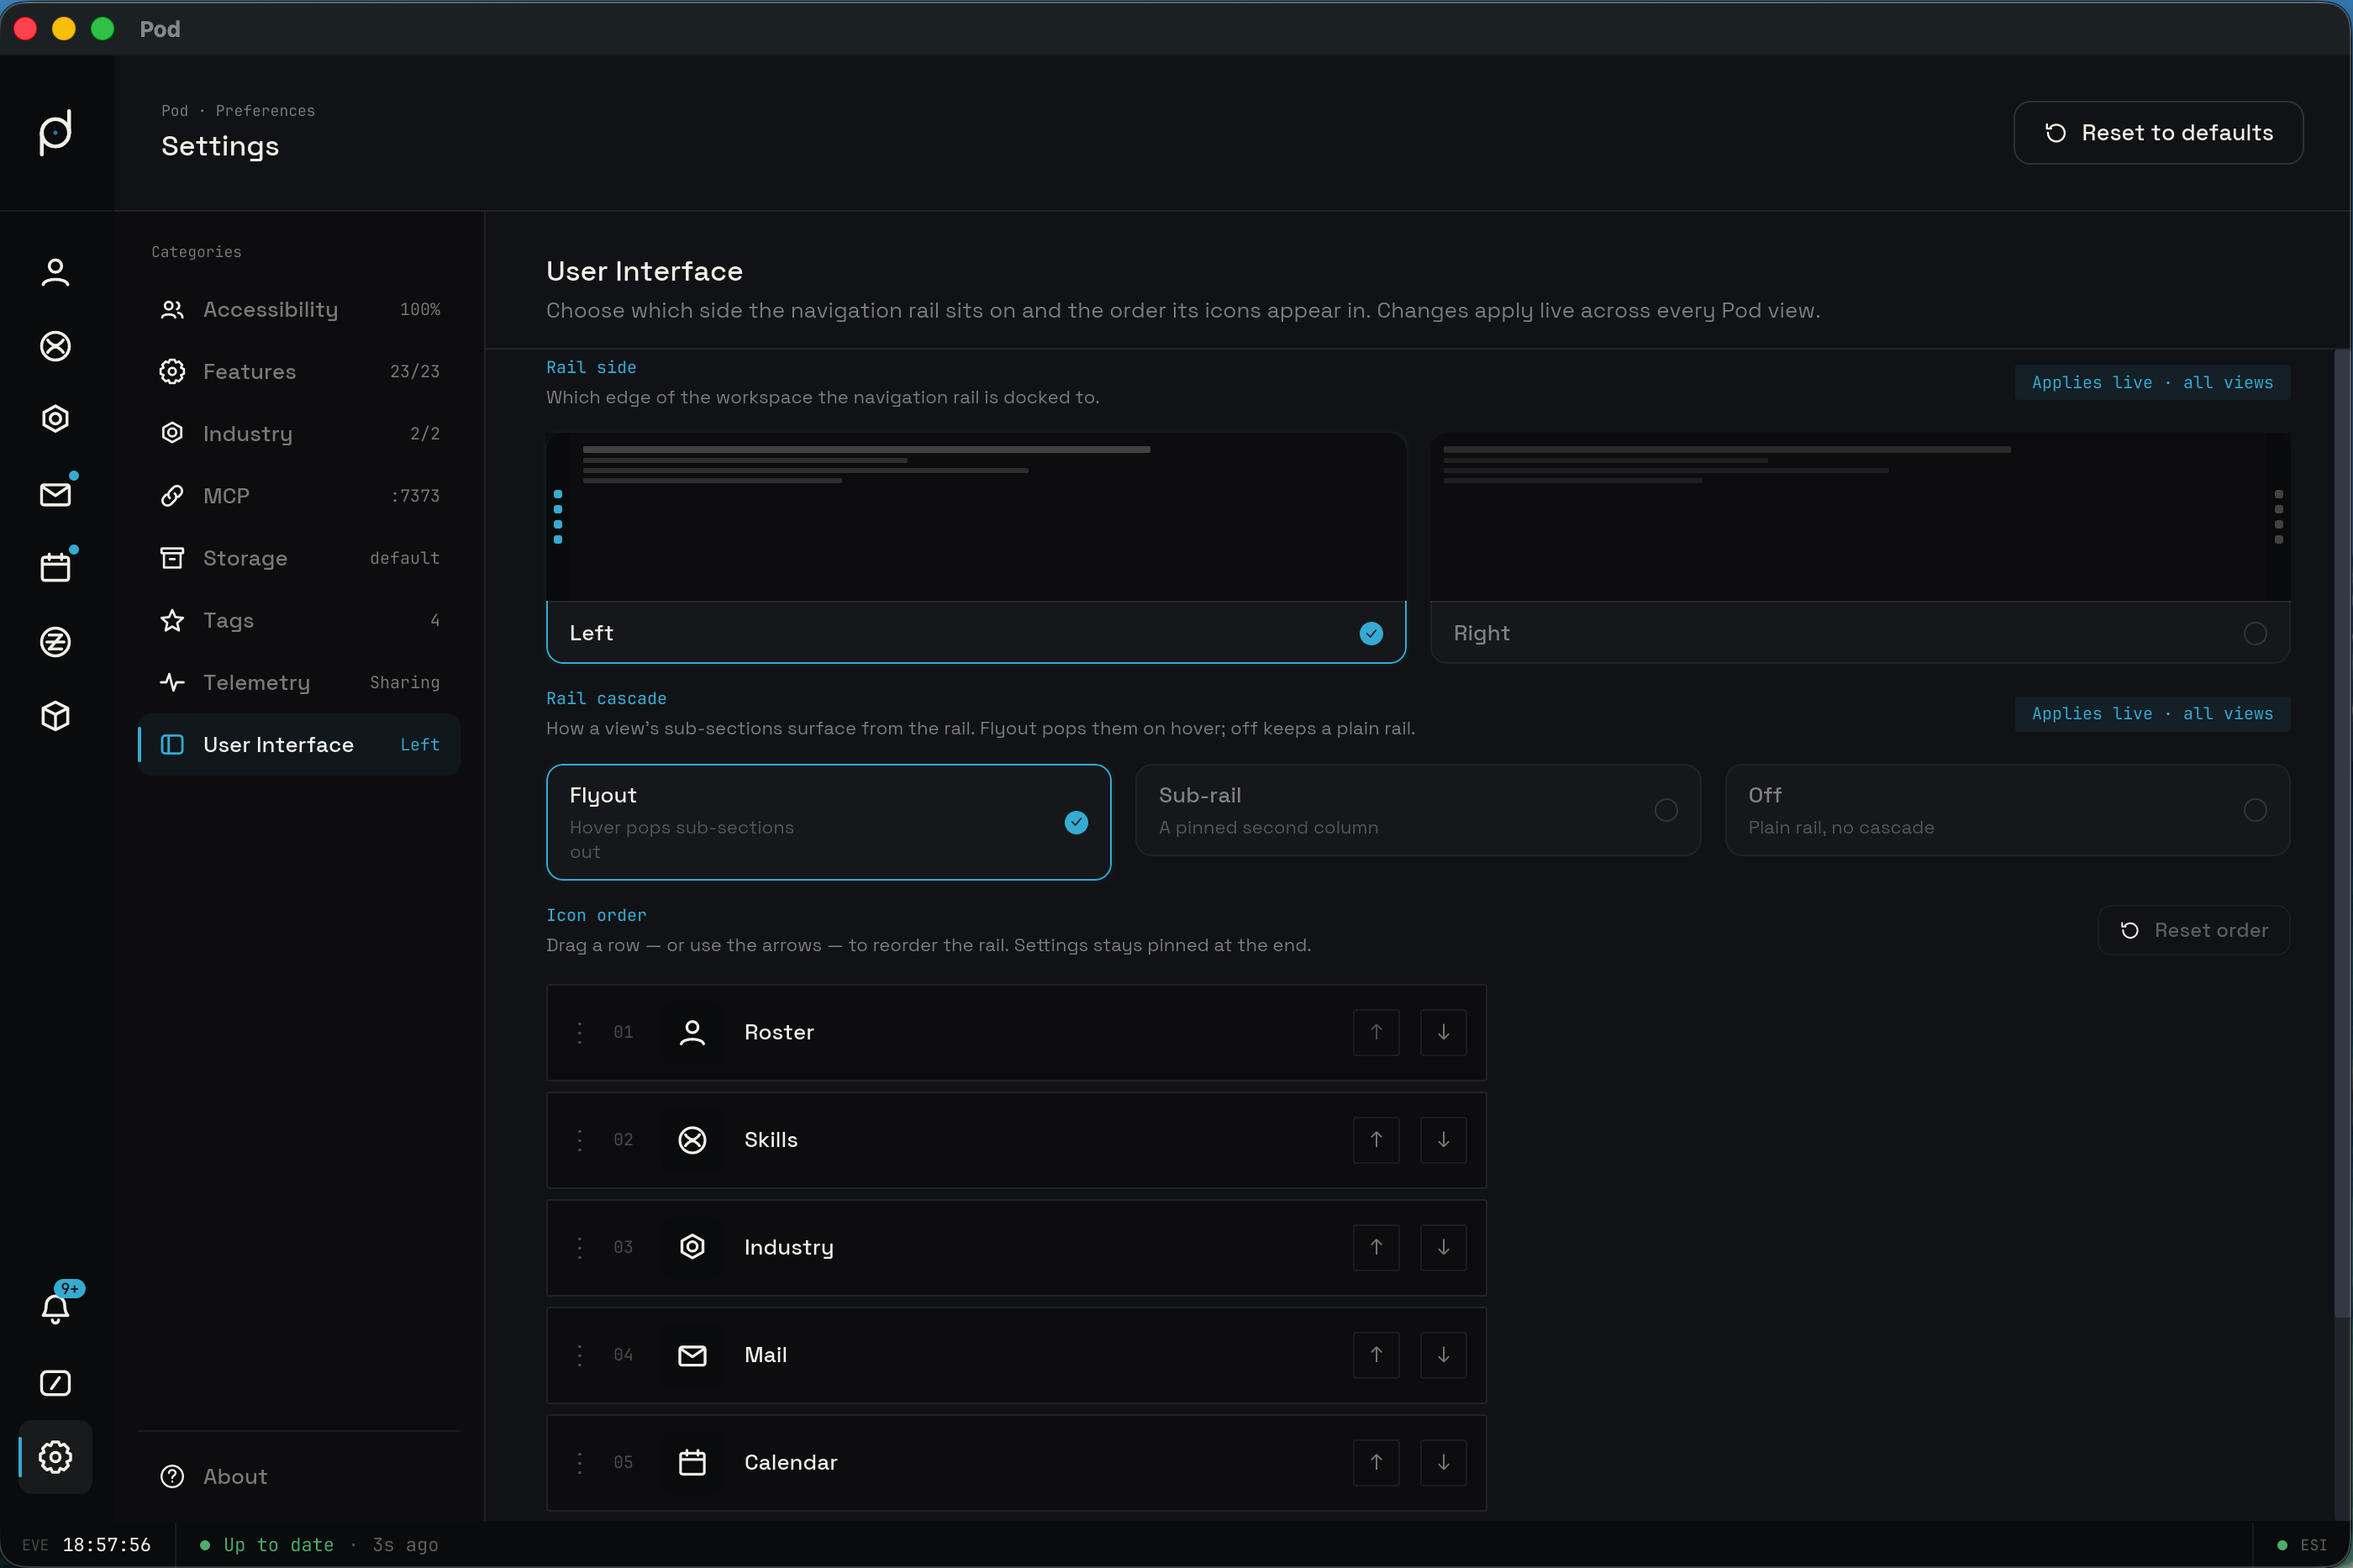
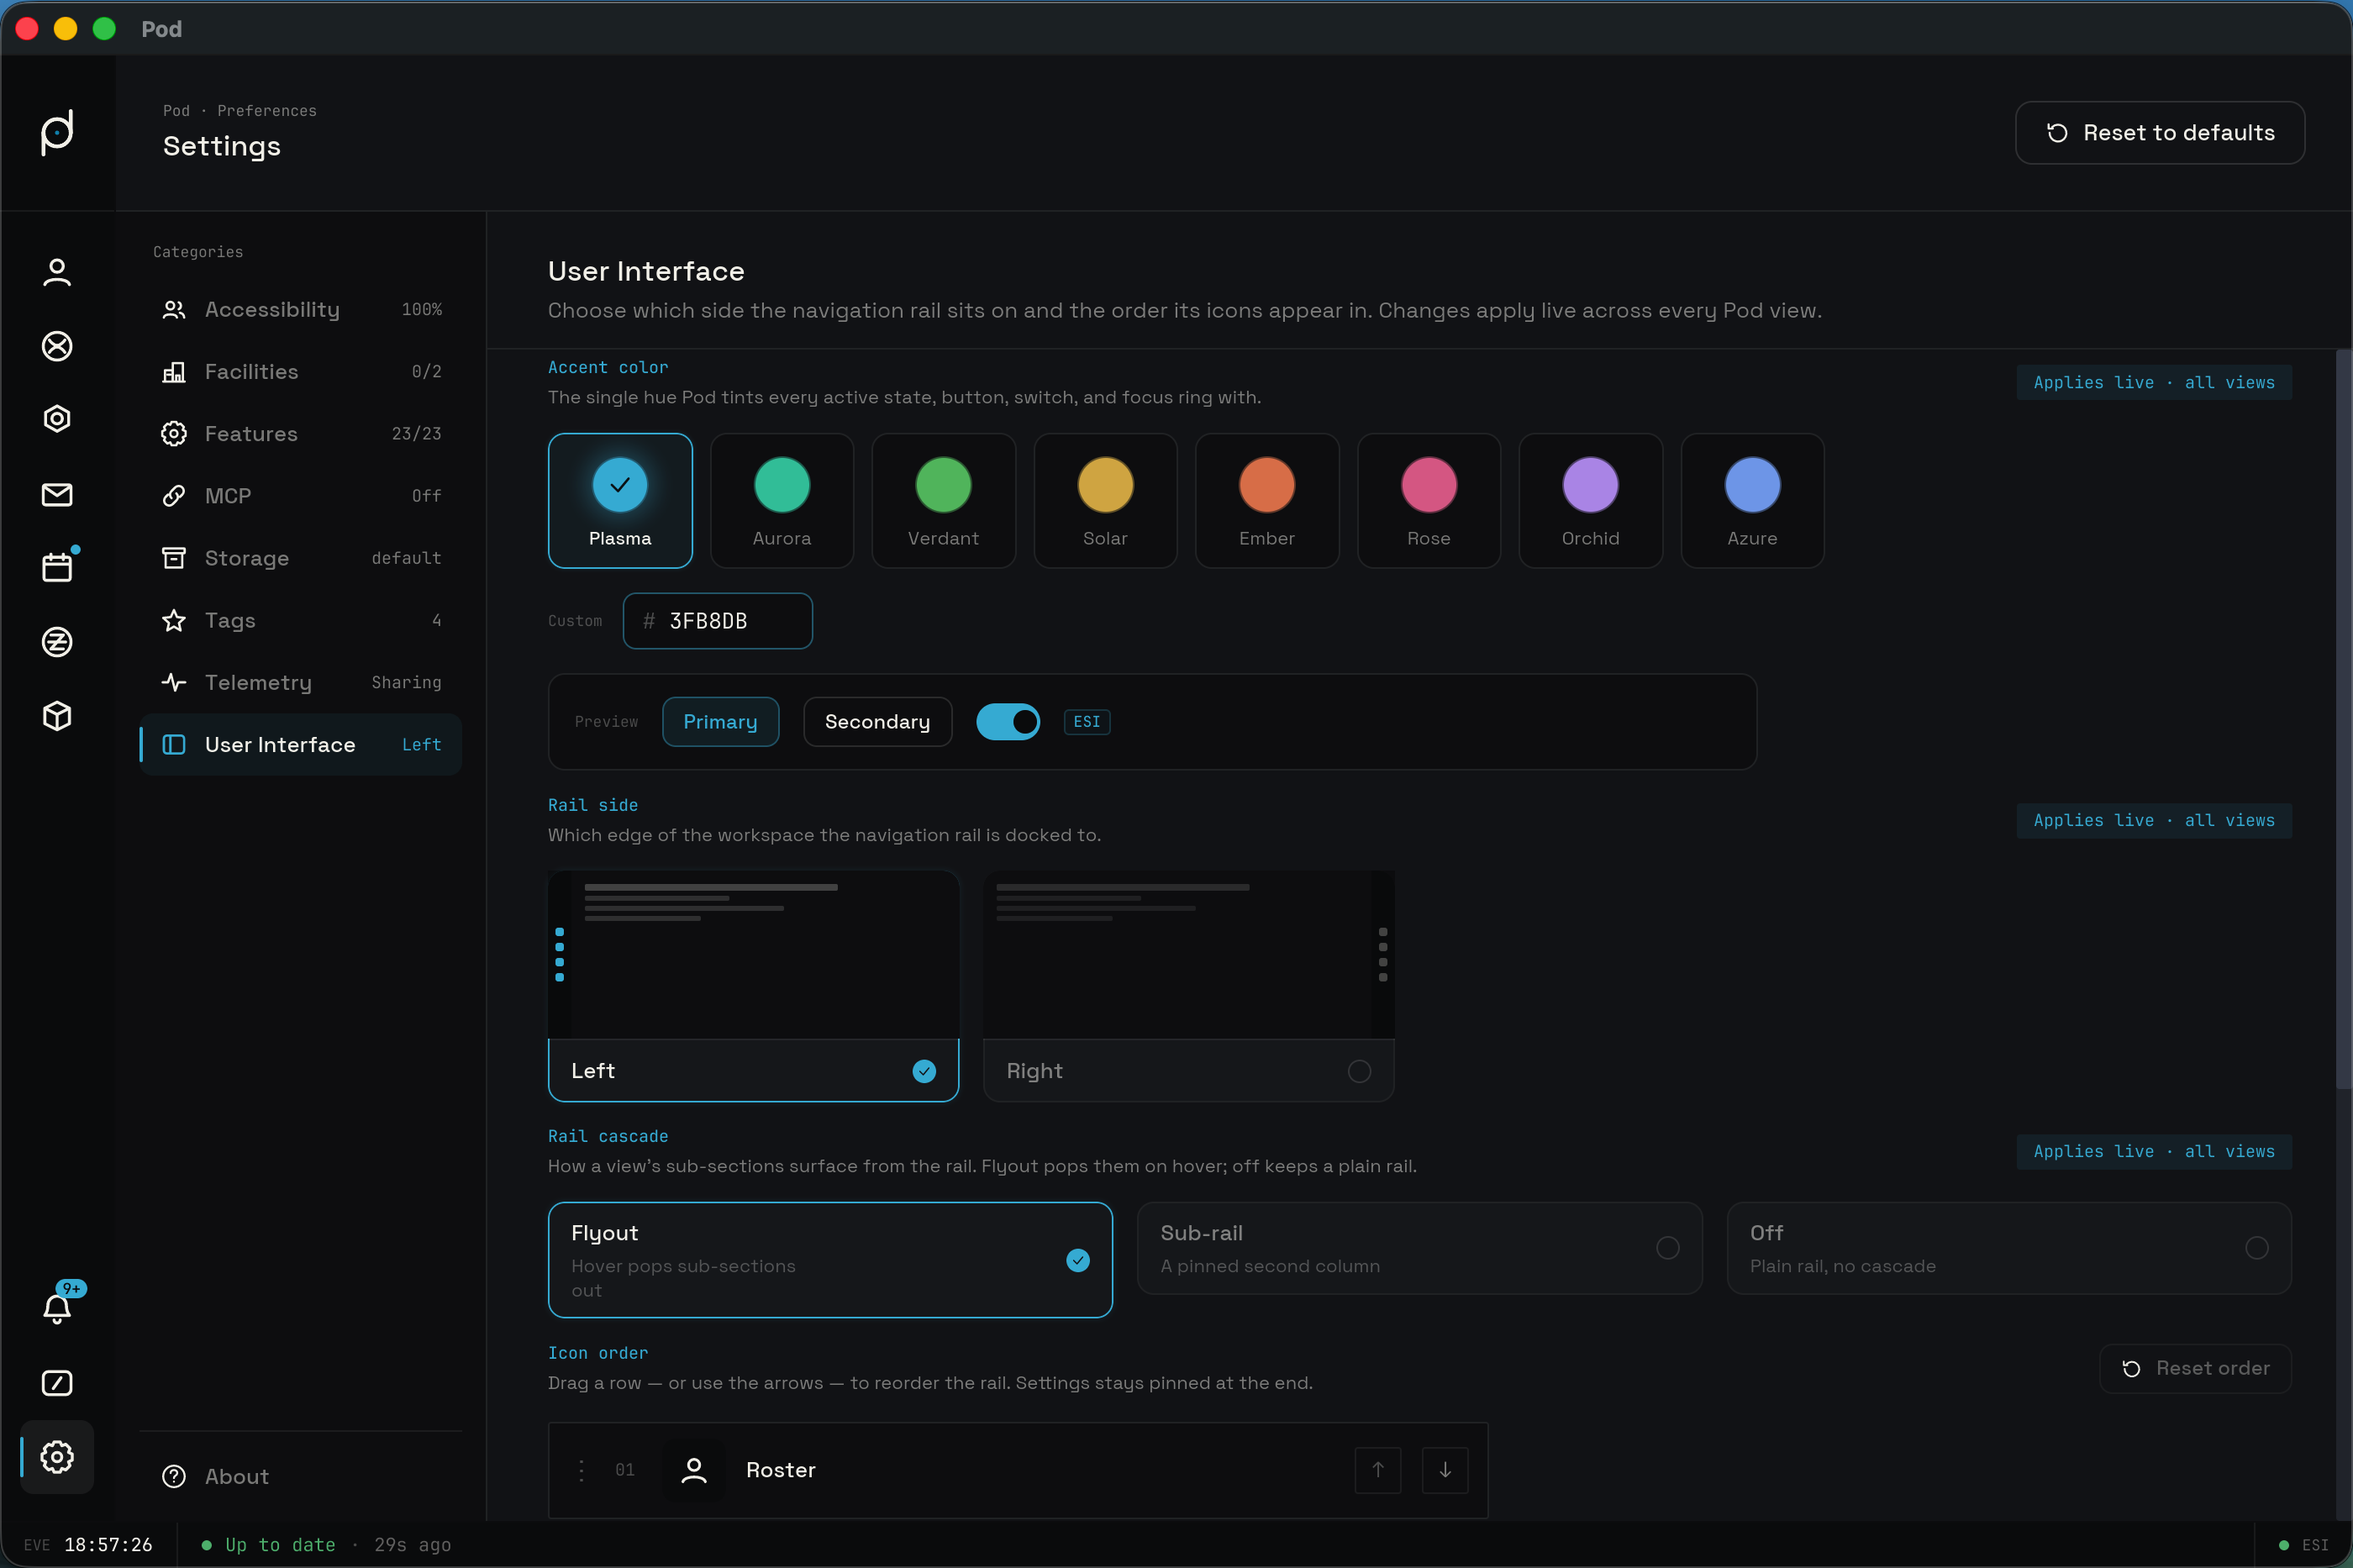
docs(settings): rewrite the Industry tab as Facilities and document the accent color

diff --git a/web/marketing/content/settings.md b/web/marketing/content/settings.md
@@ -2,7 +2,7 @@
 title: Settings
 section: Reference
 order: 1
-description: Configure Pod from the Settings window across Accessibility, Features, Industry, MCP, Storage, Tags, Telemetry, and User Interface. Each category resets on its own, and an About tab carries the version and license.
+description: Configure Pod from the Settings window across Accessibility, Facilities, Features, MCP, Storage, Tags, Telemetry, and User Interface. Each category resets on its own, and an About tab carries the version and license.
 ---
 
 # Settings
@@ -14,9 +14,9 @@ viewing, so resetting Features leaves Storage untouched, and resetting
 Accessibility leaves your tags alone.
 
 A left pane lists the categories: Accessibility, Features, MCP, Storage, Tags,
-Telemetry, and User Interface. Industry appears in that list only when the
-Industry feature is turned on, between Features and MCP. About sits by itself at
-the bottom of the pane, fenced off from the working categories. Each category
+Telemetry, and User Interface. Facilities appears in that list only when the
+Industry feature is turned on, between Accessibility and Features. About sits by
+itself at the bottom of the pane, fenced off from the working categories. Each category
 shows a small badge that summarizes its current state, so you can read the gist
 without opening the tab. The active category is marked with a plasma indicator
 bar.
@@ -154,27 +154,56 @@ appends " · custom" when the scale sits off a preset, and appends " · HC" when
 high contrast is on. So "100%", "112% · custom", "125% · HC", and "112% ·
 custom · HC" are all valid readings.
 
-## Industry
+## Facilities
 
-The Industry tab appears only when the Industry feature is enabled. It sets the
-default build facilities the planner pre-selects when you install a job.
+The Facilities tab appears only when the Industry feature is enabled, and it
+sits between Accessibility and Features in the category list. It holds two
+parts: the default install structures the planner pre-selects, and a personal
+registry of the structures you build and react in.
 
-![The Industry tab with default Manufacturing and Reactions facility pickers](/docs/img/settings/industry.png)
+![The Facilities tab with the default install pickers and a facility card showing rig slots and derived effects](/docs/img/settings/facilities.png)
 
-There are two separate defaults: one for Manufacturing and one for Reactions.
-When a default is set, the planner pre-selects that facility for jobs of that
-activity. When no default is set, the picker reads "Ask each install", and the
-planner prompts you each time. The category badge counts how many of the two
-activities have a default chosen, so "0/2", "1/2", and "2/2"
-are the possible values.
+### Default install structures
 
-Each facility picker searches by name. Typing into the field runs a live
-character search across stations and structures your characters can reach, and
-results show the facility name along with its solar system, region, and
-security status. The cost-index values for each facility appear next to the
-results as read-only information drawn from the facility itself; the tab does
-not let you edit cost indexes, it surfaces them so you can choose a cheaper
-build site.
+Two separate defaults sit at the top: one for Manufacturing and one for
+Reactions. When a default is set, the planner pre-selects that structure for
+jobs of that activity. When none is set, the picker reads "Ask each install"
+and the planner prompts you each time. Each picker searches by name across the
+stations and structures your characters can reach, and results show the
+facility name with its solar system, region, and security status. The category
+badge counts how many of the two activities have a default chosen, so "0/2",
+"1/2", and "2/2" are the possible readings.
+
+### Facility Intel
+
+Below the defaults is Facility Intel, a personal registry of the structures you
+commonly build or react in. Add a structure with "Add facility" and search for
+it by name; each one lands as a card. Pod reads these cards and the rigs you fit
+to refine build plans and ISK-return estimates, so your numbers reflect where
+you actually build.
+
+Each card shows the structure name, its type and tier, security status, solar
+system, and region, along with the resolved owner when Pod can identify it.
+Every card carries three rig slots. Open a slot to search the rigs that fit that
+structure and pick one, up to three per card. A "Derived bonuses" row sums the
+fitted rigs into three figures, scaled by the structure's security band:
+Material efficiency, Time efficiency, and Install fee. A figure with no
+contributing rigs reads as a dash rather than a zero.
+
+You are solely responsible for the accuracy of this intel. Pod cannot verify
+structures or fitted rigs against the game, so a plan is only as good as what
+you record here.
+
+### Sharing facility intel
+
+"Export intel" saves the facilities you pick, together with their fitted rigs,
+to a single `.pfi` file. Choose which facilities to include, then save the file
+and share it with corp or alliance mates. "Import intel" reads a `.pfi` file
+back in. The import is an overwrite merge: facilities you already track are
+overwritten with the file's rigs, and facilities new to you are added.
+Structures Pod cannot verify with ESI are left out, and you can add them by hand
+once you have docking access. A file made by a newer version of Pod is refused
+until you update.
 
 ## MCP
 
@@ -223,9 +252,10 @@ lock while it does. The Storage tab shows the sync status: a green dot with
 before the first sync, and a red dot with "Currently open on" and the machine
 name when another
 instance holds the lock. A "Sync now" button triggers a manual sync. When
-another machine holds the lock and you need to work here, "Release lock" takes
-over the lease. Because taking over while another instance is mid-write can lose
-unsaved changes, Pod gates the take-over behind a confirmation before it breaks
+another machine holds the lock and you need to work here, "Release lock"
+requests control from that machine, and the tab shows the request while it is in
+progress. Because taking over can overwrite unsaved changes the other instance
+still has open, Pod gates the take-over behind a confirmation before it breaks
 the lock.
 
 ### Exporting and importing your data
@@ -386,10 +416,25 @@ the four streams, back to on.
 
 ## User Interface
 
-The User Interface tab controls where the navigation rail sits and the order of
-its icons. Both settings apply live across every Pod view.
+The User Interface tab controls Pod's accent color, where the navigation rail
+sits, how its sub-sections surface, and the order of its icons. Every setting
+here applies live across every Pod view.
 
-![The User Interface tab with the rail-side control and the icon-order list](/docs/img/settings/ui.png)
+![The User Interface tab with the accent color picker, rail-side control, and icon-order list](/docs/img/settings/ui.png)
+
+### Accent color
+
+The "Accent color" control sets the single hue Pod tints every active state,
+button, switch, and focus ring with. A row of eight preset swatches covers
+Plasma (the default), Aurora, Verdant, Solar, Ember, Rose, Orchid, and Azure,
+with the current hue marked. A "Custom" hex field beside them takes any color
+you type, so the accent is yours to choose rather than a fixed set; an invalid
+hex reverts rather than applying. A "Reset" control returns the accent to
+Plasma, and a live preview strip shows the hue in context. The choice applies
+live across every view, and Pod also reads it at startup so your accent is in
+place before the first paint.
+
+### Rail and icons
 
 The "Rail side" control docks the rail to the "Left" or the "Right" edge of the
 workspace. The default is Left. The current side is marked on the chosen card,
